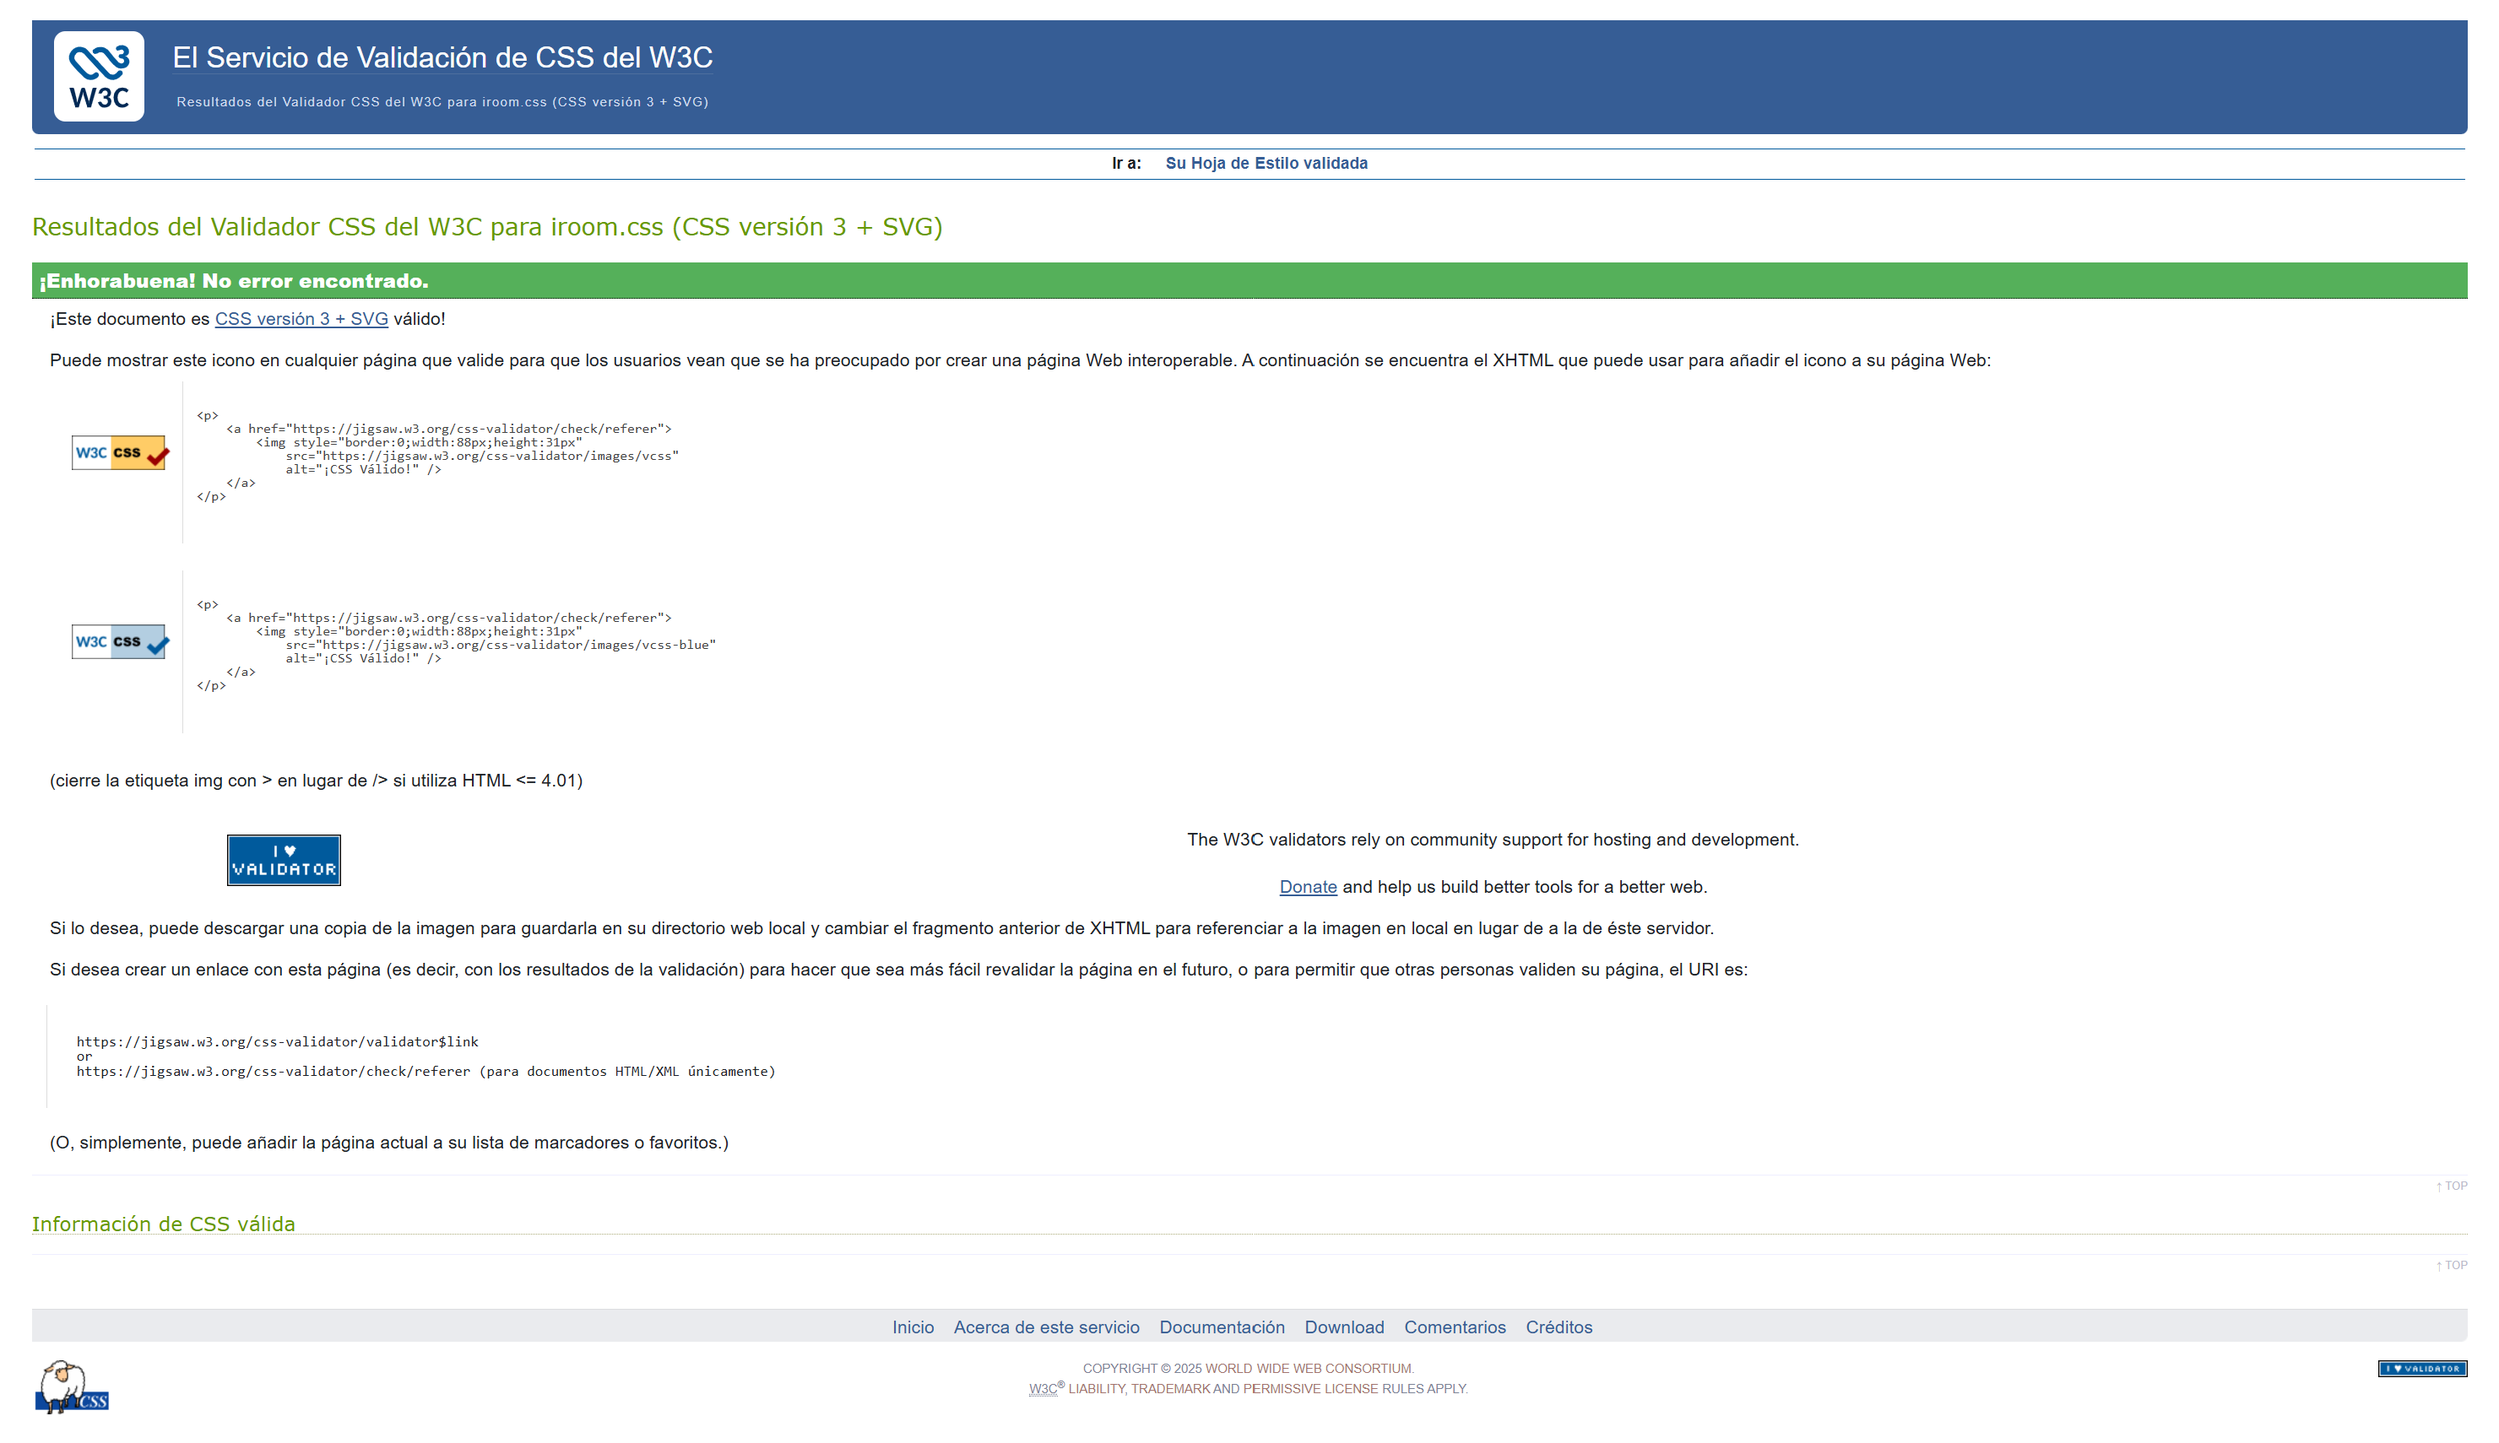
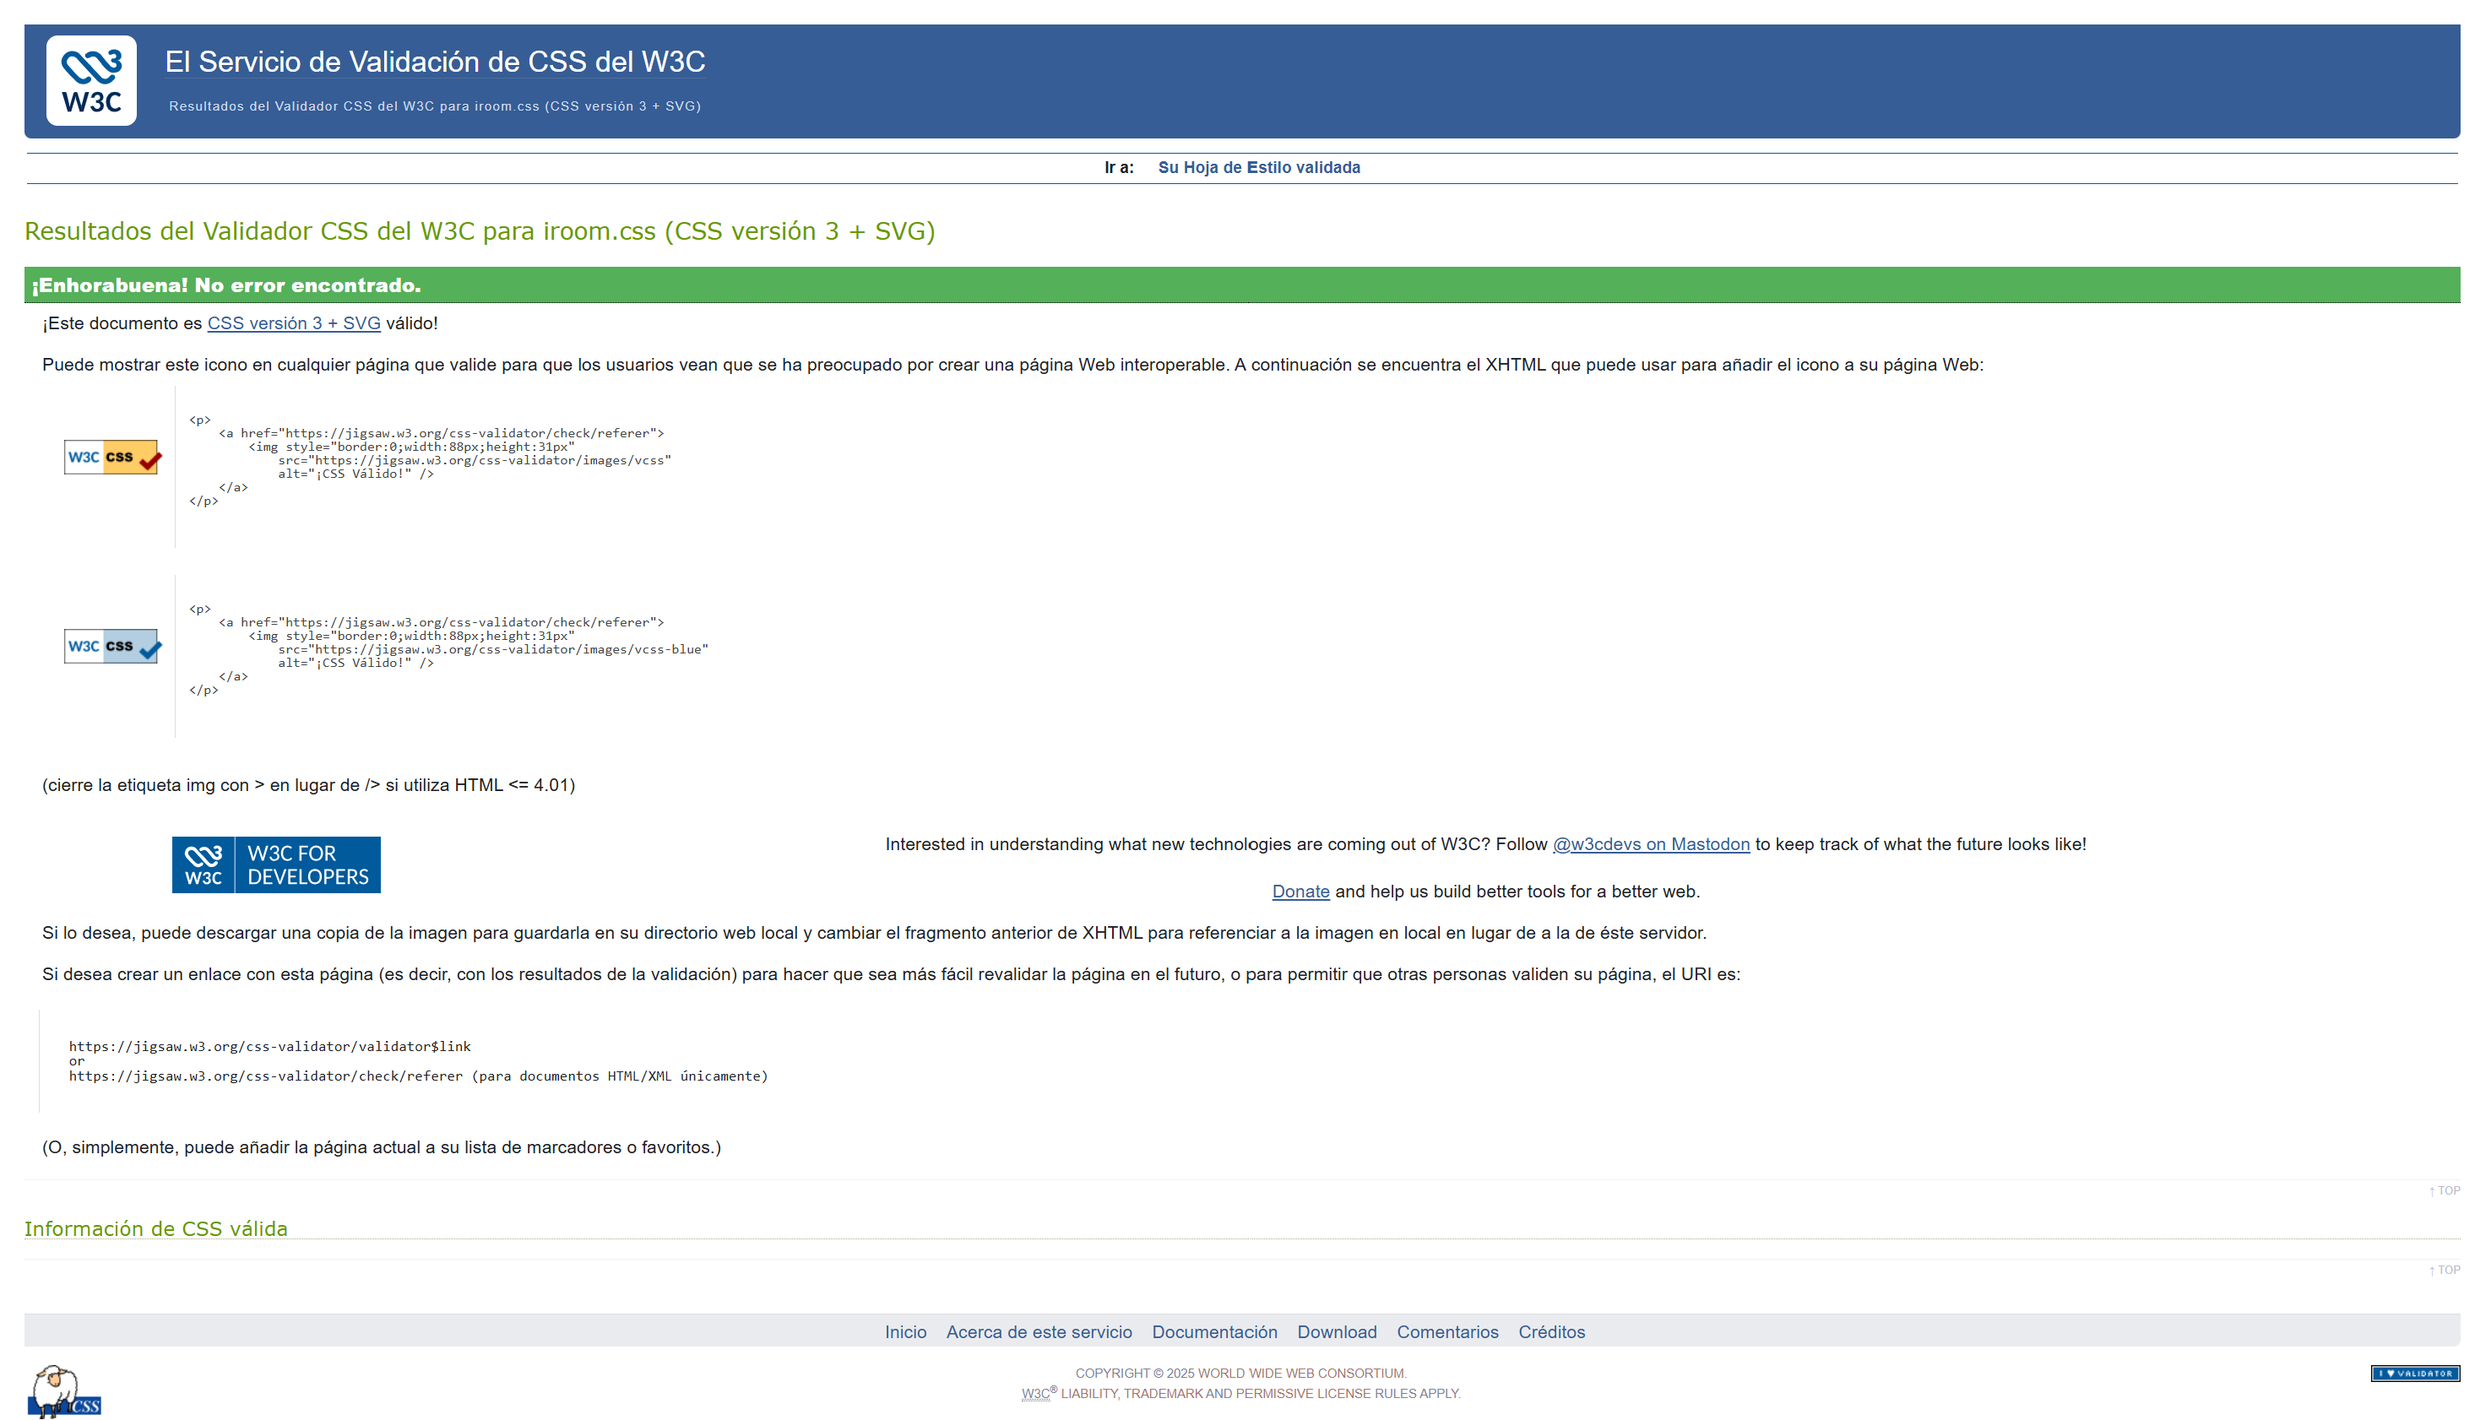
Estilos y formulario de minombre.html

diff --git a/css/iroom.css b/css/iroom.css
@@ -82,8 +82,10 @@ ul {
 
 img {
   display: block;
-  max-width: 100%;          /* la imagen nunca se sale de su caja */
+  width: 100%;              /* ocupa el ancho de su caja, sin salirse */
   height: auto;
+  max-height: 360px;        /* y no crece mas de 360 px de alto */
+  object-fit: contain;      /* la foto se ve entera, sin deformarse ni recortarse */
   margin-top: 1rem;
   border-radius: 6px;
 }
@@ -310,8 +312,11 @@ input[type="file"] {
 }
 
 /* Si el valor no es valido (fuera de rango, URL mal escrita,
-   maxima menor que minima...), el campo se marca en rojo */
-input:invalid {
+   maxima menor que minima...), el campo se marca en rojo.
+   :not(:placeholder-shown) hace que solo ocurra cuando el campo tiene
+   algo escrito: asi un campo obligatorio vacio no sale en rojo nada mas
+   abrir la pagina. */
+input:invalid:not(:placeholder-shown) {
   border-color: var(--error);
   background-color: #FEF2F2;
 }
